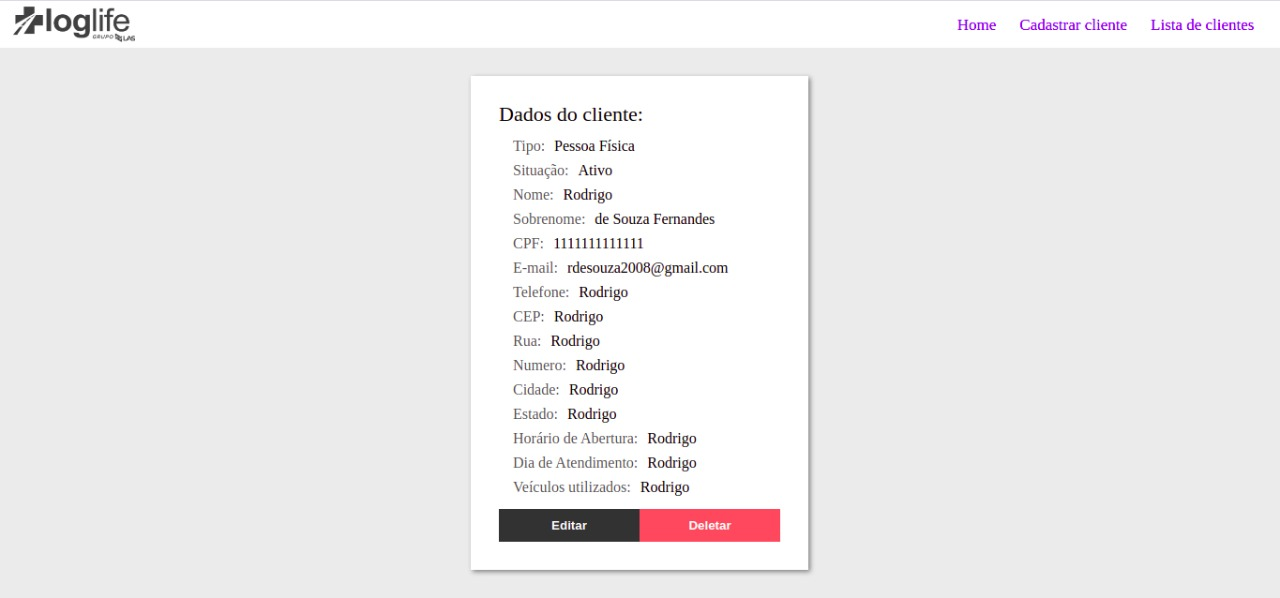
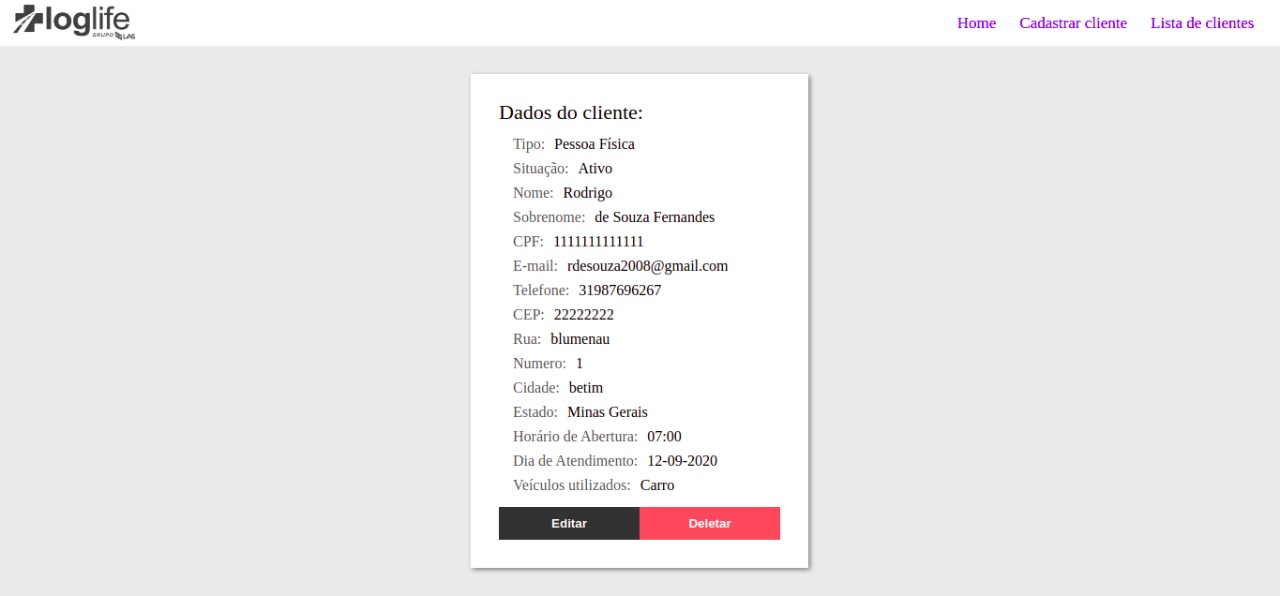
corrige erro na pag de detalhes

diff --git a/src/Components/DetailsCard/CardPessoaFisica/index.js b/src/Components/DetailsCard/CardPessoaFisica/index.js
@@ -27,15 +27,15 @@ function CardPessoaFisica({client}) {
       <Data><DetailsKey>Sobrenome:</DetailsKey>{client.lastName}</Data>
       <Data><DetailsKey>CPF:</DetailsKey>{client.cpfcnpj}</Data>
       <Data><DetailsKey>E-mail:</DetailsKey>{client.email}</Data>
-      <Data><DetailsKey>Telefone:</DetailsKey>{client.name}</Data>
-      <Data><DetailsKey>CEP:</DetailsKey>{client.name}</Data>
-      <Data><DetailsKey>Rua:</DetailsKey>{client.name}</Data>
-      <Data><DetailsKey>Numero:</DetailsKey>{client.name}</Data>
-      <Data><DetailsKey>Cidade:</DetailsKey>{client.name}</Data>
-      <Data><DetailsKey>Estado:</DetailsKey>{client.name}</Data>
-      <Data><DetailsKey>Horário de Abertura:</DetailsKey>{client.name}</Data>
-      <Data><DetailsKey>Dia de Atendimento:</DetailsKey>{client.name}</Data>
-      <Data><DetailsKey>Veículos utilizados:</DetailsKey>{client.name}</Data>
+      <Data><DetailsKey>Telefone:</DetailsKey>{client.phone}</Data>
+      <Data><DetailsKey>CEP:</DetailsKey>{client.cep}</Data>
+      <Data><DetailsKey>Rua:</DetailsKey>{client.street}</Data>
+      <Data><DetailsKey>Numero:</DetailsKey>{client.number}</Data>
+      <Data><DetailsKey>Cidade:</DetailsKey>{client.city}</Data>
+      <Data><DetailsKey>Estado:</DetailsKey>{client.state}</Data>
+      <Data><DetailsKey>Horário de Abertura:</DetailsKey>{client.opening}</Data>
+      <Data><DetailsKey>Dia de Atendimento:</DetailsKey>{client.attendance}</Data>
+      <Data><DetailsKey>Veículos utilizados:</DetailsKey>{client.vehicles.join(', ')}</Data>
       <BtnContainer>
         <BtnClient onClick={() => history.push(`/edit/${client.id}`)}>Editar</BtnClient>
         <BtnClient onClick={deleteClient}>Deletar</BtnClient>
